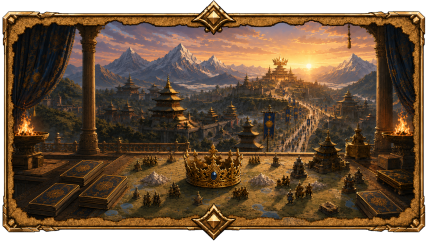
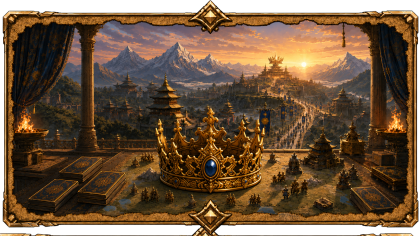
ui update VII

diff --git a/nepal_kings/game/components/tutorial_window.py b/nepal_kings/game/components/tutorial_window.py
@@ -56,9 +56,16 @@ def _wrap_text(text, font, max_w):
 
 
 def _draw_vscrollbar(window, panel_rect, top, avail_h, content_h, scroll,
-                     max_scroll, accent):
-    """A slim vertical scrollbar on the right edge of a panel's content area."""
+                     max_scroll, accent, obj=None):
+    """A slim vertical scrollbar on the right edge of a panel's content area.
+
+    When ``obj`` is given, the thumb/track geometry is stashed on it so the
+    event handler can drag the thumb directly (a real scrollbar where the thumb
+    follows the cursor), instead of grab-scrolling the content the opposite way.
+    """
     if content_h <= 0 or max_scroll <= 0:
+        if obj is not None:
+            obj._scroll_track_rect = None
         return
     w = max(4, int(0.009 * settings.SCREEN_WIDTH))
     x = panel_rect.right - w - int(0.012 * settings.SCREEN_WIDTH)
@@ -70,36 +77,78 @@ def _draw_vscrollbar(window, panel_rect, top, avail_h, content_h, scroll,
     pygame.draw.rect(bar, (255, 255, 255, 26), bar.get_rect(), border_radius=w // 2)
     pygame.draw.rect(bar, (*accent, 200), (0, thumb_y, w, thumb_h), border_radius=w // 2)
     window.blit(bar, (x, top))
+    if obj is not None:
+        hit_pad = w  # widen the grab target for easier (and touch) dragging
+        obj._scroll_track_rect = pygame.Rect(
+            x - hit_pad, top, w + 2 * hit_pad, avail_h)
+        obj._scroll_track_top = top
+        obj._scroll_thumb_h = thumb_h
+        obj._scroll_thumb_top = top + thumb_y
+        obj._scroll_max_off = max_off
+
+
+def _set_scroll_from_thumb(obj, y):
+    """Map a pointer Y on the scrollbar track to a scroll offset so the thumb
+    follows the cursor (drag the bar down → scroll down)."""
+    top = getattr(obj, '_scroll_track_top', None)
+    max_off = getattr(obj, '_scroll_max_off', 0)
+    if top is None or max_off <= 0:
+        return
+    grab = getattr(obj, '_scroll_grab_offset', 0)
+    frac = max(0.0, min(1.0, (y - top - grab) / max_off))
+    obj._scroll = frac * obj._max_scroll
 
 
 def _apply_wheel_drag_scroll(events, content_rect, obj):
     """Update ``obj``'s scroll fields (_scroll/_max_scroll/_dragging/
     _drag_last_y/_drag_moved) from wheel + drag events, clamped to
-    [0, _max_scroll]. Shared by the scrollable dialogues below."""
+    [0, _max_scroll]. Shared by the scrollable dialogues below.
+
+    Dragging the scrollbar moves the thumb under the cursor; dragging elsewhere
+    in the content grab-scrolls (touch-style)."""
     if obj._max_scroll <= 0:
         obj._scroll = 0.0
         obj._dragging = False
+        obj._scrollbar_dragging = False
         return
     step = max(24, int(0.045 * settings.SCREEN_HEIGHT))
+    track = getattr(obj, '_scroll_track_rect', None)
     for event in events:
         et = getattr(event, 'type', None)
         if et == pygame.MOUSEWHEEL:
             obj._scroll -= getattr(event, 'y', 0) * step
         elif et == pygame.MOUSEBUTTONDOWN and getattr(event, 'button', 0) == 1:
             pos = getattr(event, 'pos', pygame.mouse.get_pos())
-            if content_rect.collidepoint(pos):
+            if track is not None and track.collidepoint(pos):
+                # Scrollbar drag: the thumb tracks the cursor. If the press
+                # lands on the thumb, keep its grab offset; otherwise centre the
+                # thumb under the cursor (page jump).
+                obj._scrollbar_dragging = True
+                obj._drag_moved = True
+                thumb_top = getattr(obj, '_scroll_thumb_top', pos[1])
+                thumb_h = getattr(obj, '_scroll_thumb_h', 0)
+                if thumb_top <= pos[1] <= thumb_top + thumb_h:
+                    obj._scroll_grab_offset = pos[1] - thumb_top
+                else:
+                    obj._scroll_grab_offset = thumb_h / 2
+                _set_scroll_from_thumb(obj, pos[1])
+            elif content_rect.collidepoint(pos):
                 obj._dragging = True
                 obj._drag_last_y = pos[1]
                 obj._drag_moved = False
-        elif et == pygame.MOUSEMOTION and obj._dragging:
+        elif et == pygame.MOUSEMOTION:
             pos = getattr(event, 'pos', pygame.mouse.get_pos())
-            dy = pos[1] - obj._drag_last_y
-            if abs(dy) > 2:
-                obj._drag_moved = True
-            obj._scroll -= dy
-            obj._drag_last_y = pos[1]
+            if getattr(obj, '_scrollbar_dragging', False):
+                _set_scroll_from_thumb(obj, pos[1])
+            elif obj._dragging:
+                dy = pos[1] - obj._drag_last_y
+                if abs(dy) > 2:
+                    obj._drag_moved = True
+                obj._scroll -= dy
+                obj._drag_last_y = pos[1]
         elif et == pygame.MOUSEBUTTONUP and getattr(event, 'button', 0) == 1:
             obj._dragging = False
+            obj._scrollbar_dragging = False
     obj._scroll = max(0, min(obj._scroll, obj._max_scroll))
 
 
@@ -160,6 +209,8 @@ class TutorialWindowDialogue:
         self._dragging = False
         self._drag_last_y = 0
         self._drag_moved = False
+        self._scrollbar_dragging = False
+        self._scroll_track_rect = None
 
     # ── helpers ──────────────────────────────────────────────────────
     @staticmethod
@@ -448,7 +499,7 @@ class TutorialWindowDialogue:
 
     def _draw_scrollbar(self, avail_top, avail_h, content_h):
         _draw_vscrollbar(self.window, self.rect, avail_top, avail_h, content_h,
-                         self._scroll, self._max_scroll, self._accent)
+                         self._scroll, self._max_scroll, self._accent, obj=self)
 
     def get_tooltip(self, pos):
         return ''
@@ -522,6 +573,8 @@ class StarterSuitRevealDialogue:
         self._dragging = False
         self._drag_last_y = 0
         self._drag_moved = False
+        self._scrollbar_dragging = False
+        self._scroll_track_rect = None
 
     def _draw_centered_lines(self, lines, font, color, y, *, gap=None):
         max_w = self.rect.w - int(0.08 * settings.SCREEN_WIDTH)
@@ -639,7 +692,7 @@ class StarterSuitRevealDialogue:
                     self.window.set_clip(None)
                     _draw_vscrollbar(self.window, self.rect, content_top, content_h,
                                      bh, self._scroll, self._max_scroll,
-                                     settings.TITLE_TEXT_COLOR)
+                                     settings.TITLE_TEXT_COLOR, obj=self)
                 else:
                     self.window.blit(
                         breakdown, (bx, content_top + max(0, (content_h - bh) // 2)))

diff --git a/tests/client/test_tutorial_window.py b/tests/client/test_tutorial_window.py
@@ -102,6 +102,62 @@ def test_window_ignores_clicks_within_200ms():
     assert win.update([_click(win._btn_next.rect)]) is None
 
 
+def _scrollable_window():
+    from config import settings
+    from game.components.tutorial_window import TutorialWindowDialogue
+    if not pygame.display.get_init():
+        pygame.display.init()
+    surf = pygame.display.set_mode((settings.SCREEN_WIDTH, settings.SCREEN_HEIGHT))
+    if not pygame.font.get_init():
+        pygame.font.init()
+    pages = [{'title': 'Scroll Test', 'layout': 'text_only',
+              'lines': [f'line {i}' for i in range(60)]}]
+    win = TutorialWindowDialogue(surf, pages, title='T')
+    win._created_at = pygame.time.get_ticks() - 1000
+    win.draw()
+    return win
+
+
+def _evt(kind, **kw):
+    return pygame.event.Event(kind, **kw)
+
+
+def test_scrollbar_thumb_drag_follows_cursor():
+    win = _scrollable_window()
+    assert win._max_scroll > 0
+    track = win._scroll_track_rect
+    assert track is not None
+
+    # Grab the thumb and drag DOWN → scroll increases (view goes down).
+    win._scroll = 0.0
+    win.draw()
+    y0 = win._scroll_thumb_top + 2
+    win.update([_evt(pygame.MOUSEBUTTONDOWN, button=1, pos=(track.centerx, y0)),
+                _evt(pygame.MOUSEMOTION, pos=(track.centerx, y0 + 90))])
+    assert win._scroll > 0
+    down_scroll = win._scroll
+    win.update([_evt(pygame.MOUSEBUTTONUP, button=1, pos=(track.centerx, y0 + 90))])
+
+    # Grab the thumb and drag UP → scroll decreases.
+    win.draw()
+    y1 = win._scroll_thumb_top + 2
+    win.update([_evt(pygame.MOUSEBUTTONDOWN, button=1, pos=(track.centerx, y1)),
+                _evt(pygame.MOUSEMOTION, pos=(track.centerx, y1 - 150))])
+    assert win._scroll < down_scroll
+    win.update([_evt(pygame.MOUSEBUTTONUP, button=1, pos=(track.centerx, y1 - 150))])
+
+
+def test_content_grab_scroll_still_works():
+    win = _scrollable_window()
+    win._scroll = 0.0
+    win.draw()
+    cx, cy = win.rect.centerx, win.rect.centery
+    # Touch-style: drag content UP → scroll increases.
+    win.update([_evt(pygame.MOUSEBUTTONDOWN, button=1, pos=(cx, cy)),
+                _evt(pygame.MOUSEMOTION, pos=(cx, cy - 60))])
+    assert win._scroll > 0
+
+
 def test_tiny_overflow_is_not_scrolled_but_large_overflow_is():
     _display()
     from config import settings

diff --git a/nepal_kings/game/screens/conquer_game_screen.py b/nepal_kings/game/screens/conquer_game_screen.py
@@ -7566,9 +7566,10 @@ class ConquerGameScreen(GameScreen):
         COUNT — never the cards.
         """
         def _available(t):
-            return (isinstance(t, dict)
-                    and t.get('played_round') is None
-                    and t.get('status') != 'played')
+            if not isinstance(t, dict) or t.get('played_round') is not None:
+                return False
+            status = t.get('status', 'available')
+            return status == 'available' or bool(t.get('_render_ghost'))
 
         return sum(1 for t in self._current_conquer_opponent_tactics()
                    if _available(t))

diff --git a/tests/client/test_conquer_game_screen.py b/tests/client/test_conquer_game_screen.py
@@ -1188,6 +1188,7 @@ def test_opponent_hidden_hand_count_counts_available_only():
             {'player_id': 20, 'status': 'available', 'played_round': None},  # opp hand
             {'player_id': 20, 'status': 'available', 'played_round': None},  # opp hand
             {'player_id': 20, 'status': 'played', 'played_round': 0},        # opp played
+            {'player_id': 20, 'status': 'discarded', 'played_round': None},  # opp spent
         ],
     ))
     assert ConquerGameScreen._opponent_hidden_hand_count(screen) == 2